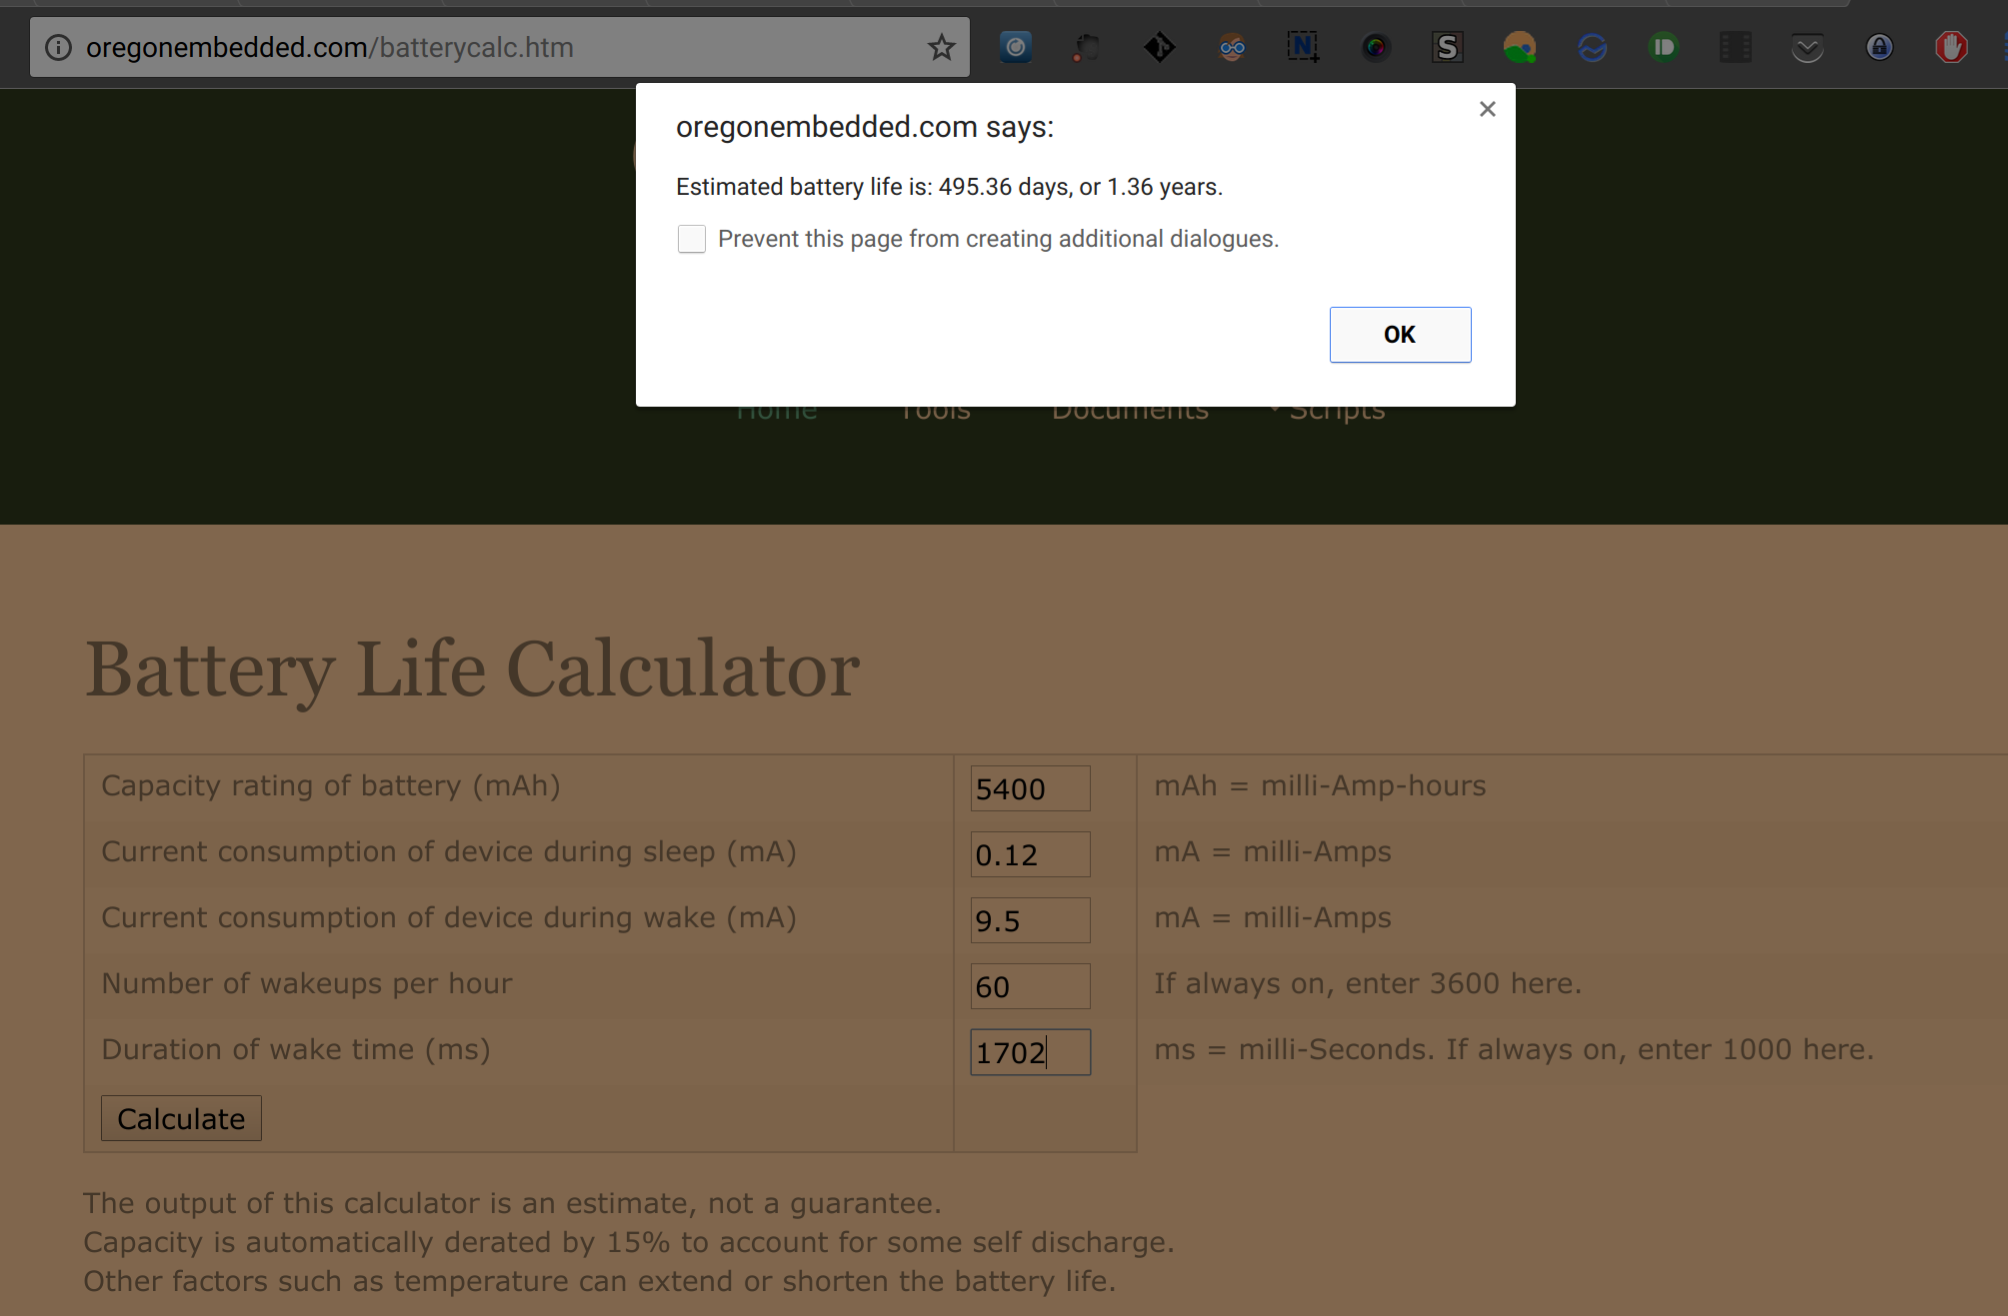
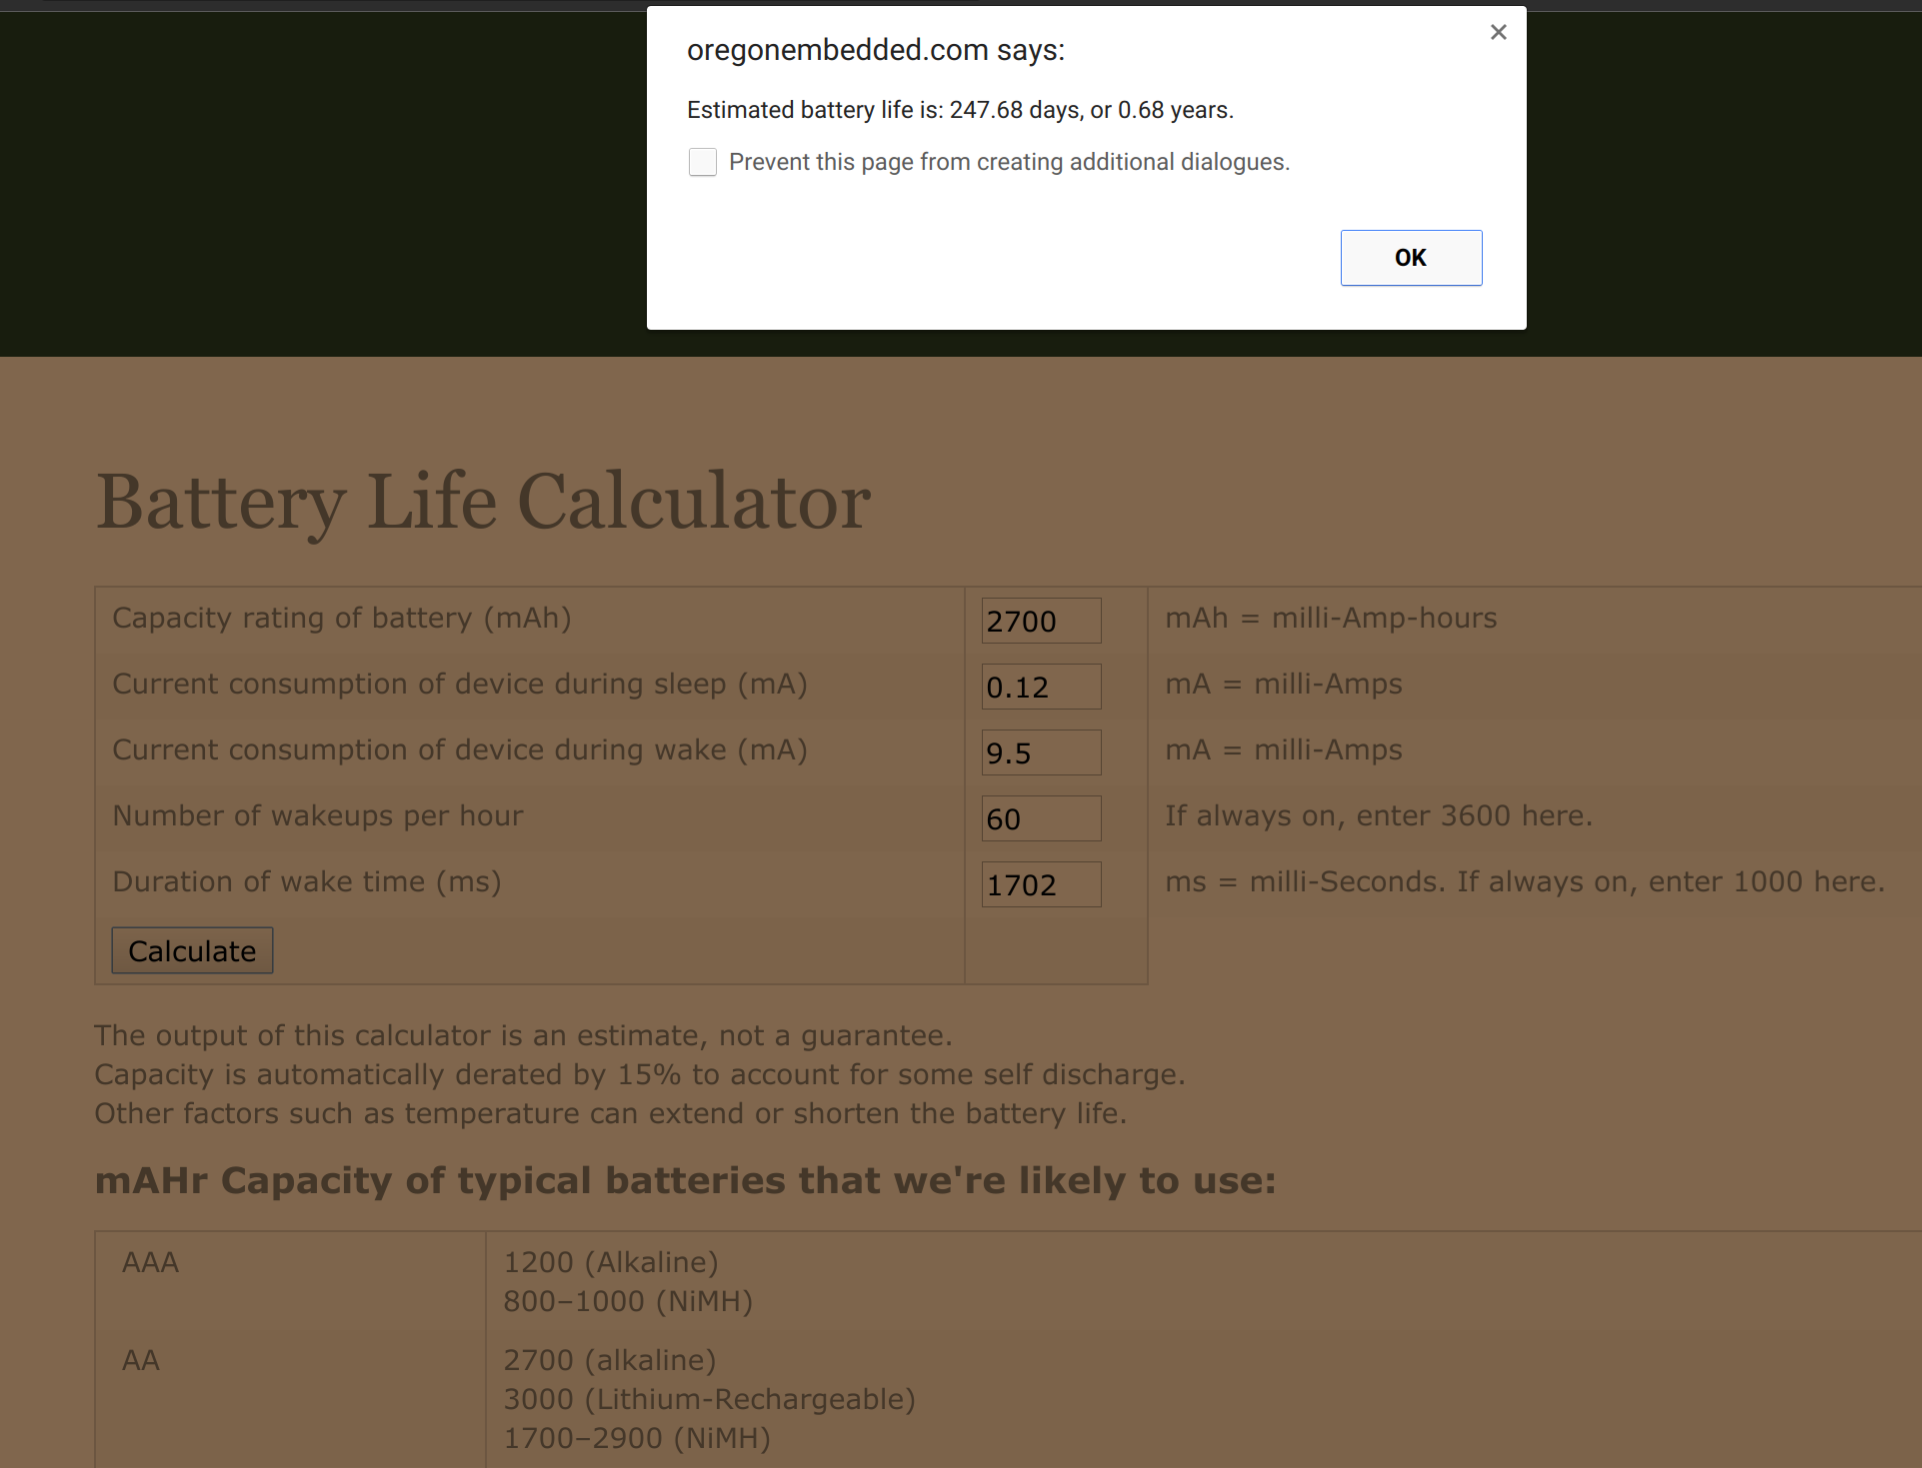
re-do emonthv2 battery life estimate, batteris are in series :-)

diff --git a/docs/power_consumption.md b/docs/power_consumption.md
@@ -37,19 +37,19 @@ To summarise:
 - Off current = 0.06mA
 - Off time    = 59774.5 ms
 
-[Oregon Embedded online battery life calculator tool](http://oregonembedded.com/batterycalc.htm) can now be used to calculate battery live. Assuming using 2 x AA alkaline batteries @ 2700 mAhr each = 5400
+[Oregon Embedded online battery life calculator tool](http://oregonembedded.com/batterycalc.htm) can now be used to calculate battery live. Assuming using 2 x AA alkaline batteries in series = 2700 mAhr
 
 ![emonth V2 estimated battery life](emonth2_batterylife_estimate.png)
 
-Given the measured power consumption the emonTh2 is estimated to have a battery life of 7.6 years!
+**Given the measured power consumption the emonTh V2 is estimated to have a battery life of 3.8 years**
 
-Plugging in the [power consumption figures from the emonTh V1](http://blog.openenergymonitor.org/2013/10/emonth-update-software-power/) (with DHT22) into the calculator a 1.4 year battery life is estimated. 
+Plugging in the [power consumption figures from the old **emonTh V1**](http://blog.openenergymonitor.org/2013/10/emonth-update-software-power/) (with DHT22) into the calculator a 1.4 year battery life is estimated.
 
 ![emonth V1 estimated battery life](emonth_V1_estimated_batterylife.png)
 
-From [real world testing](http://blog.openenergymonitor.org/2015/02/real-world-emonth-battery-life) is been established that the emonTh V1 actually achieves a 8 month battery life. This is 57% less than the estimated figure.
-
-Assuming the battery life calculator is overestimating by the same amount for the emonTH V2 we can **expect a real world battery life of just over 5 years**, which is not too bad :-p 
+According to the calculator the emonTH V1 is estimated battery life of 0.7 years which matches the [real world emonth v1 battery life](http://blog.openenergymonitor.org/2015/02/real-world-emonth-battery-life).
 
 
 I have setup a battery life test with the emonTh V2 with Si7021 sensor, I will report back in a couple of years :-)
+
+[Forum thread discussion](https://community.openenergymonitor.org/t/emonth-v2/1696/2)
